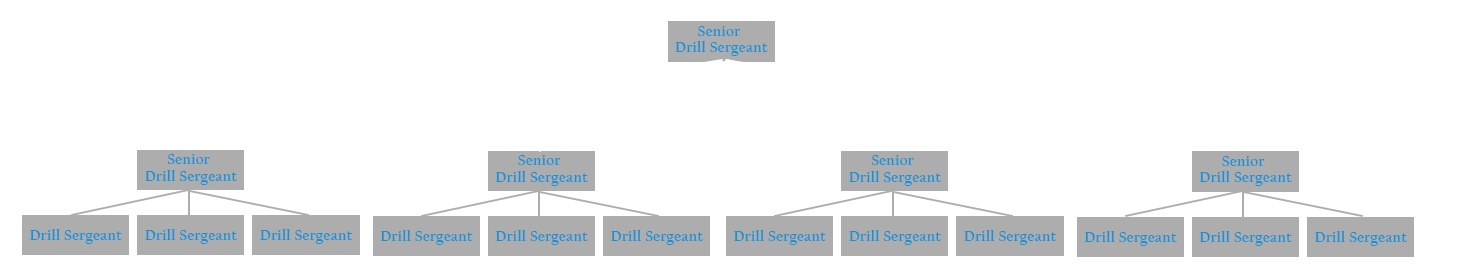
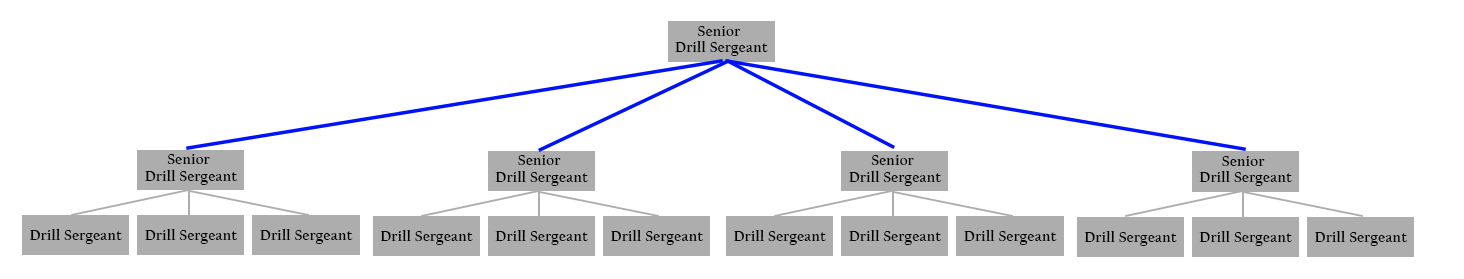
ds

diff --git a/exampleSite/content/project2/index.md b/exampleSite/content/project2/index.md
@@ -11,6 +11,7 @@ showToc: true
 *`Jean Burgos PMP®`*
 ![](./IMG_0282(1).JPG)
 # Drill-Sergeant
+![](./structure.png)
 # Duty Description
 The Senior Drill Sergeant (Senior Project/ Program Manager) in a Basic Combat Training Company conducts training for at least 60 to 220 Initial Entry Soldiers in a 10-week cycle. The Senior Drill Sergeant is responsible for the accountability, professional development, supervision, and evaluation of three Drill Sergeants (Project Managers) under his charge and mentors other 9 junior Drill Sergeants from separate groups.
 

diff --git a/exampleSite/content/blog/Project3/index.md b/exampleSite/content/blog/Project3/index.md
@@ -2,7 +2,7 @@
 author: "Jean Burgos"
 title: "First Sergeant"
 date: "2022-01-07"
-description: "Senior Project Manager as a First Sergeant Duties"
+description: "Senior Project Manager as a First Sergeant"
 ShowRelated: true
 showToc: true
 
